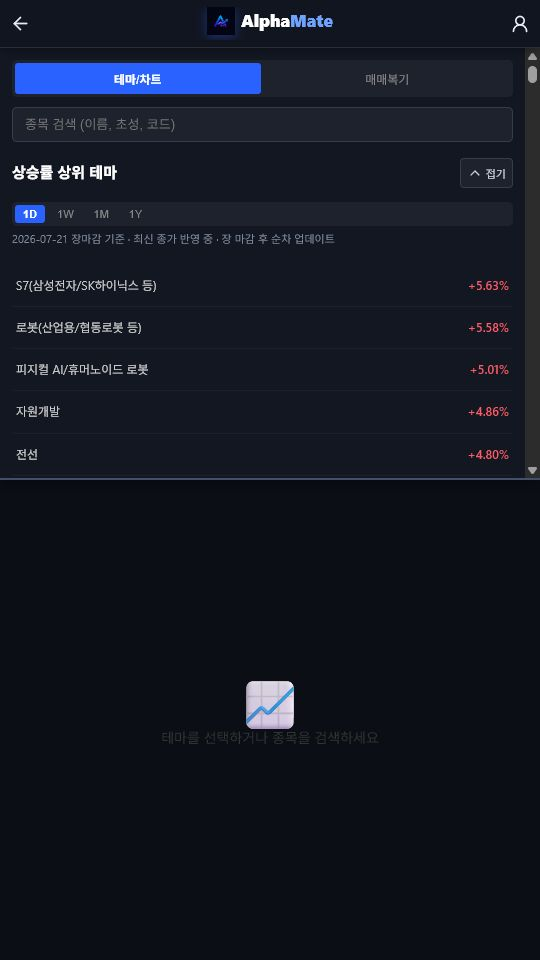
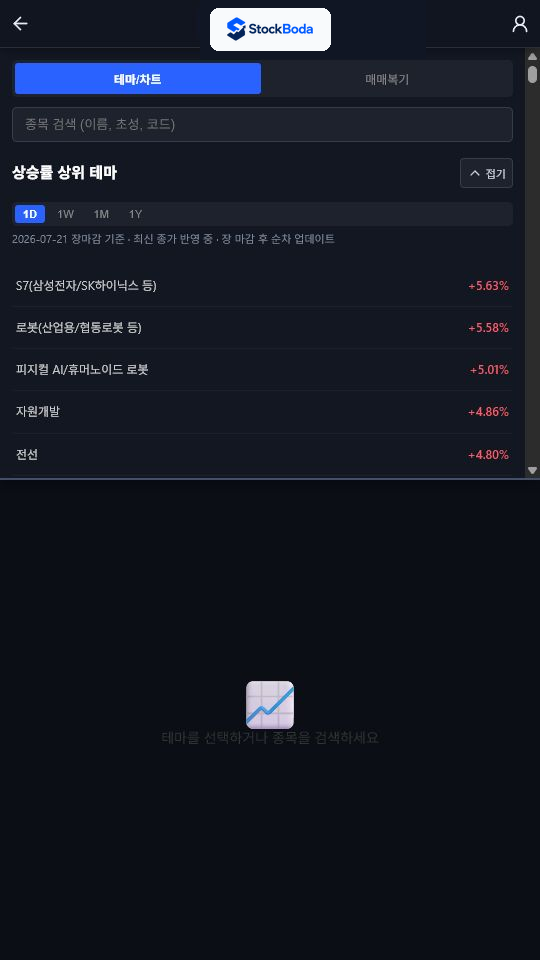
feat: refresh StockBoda Play raw assets

Changed region(s): [[0.3852, 0.0, 0.6222, 0.0625]]

diff --git a/scripts/generate_play_store_assets.py b/scripts/generate_play_store_assets.py
@@ -70,6 +70,12 @@ SCREENSHOTS = (
     ),
 )
 
+RAW_SOURCES_WITH_STALE_BRANDING = (
+    "01-theme-ranking.png",
+    "02-theme-stocks.png",
+    "04-journal-input.png",
+)
+
 
 def font(size: int, *, bold: bool = False) -> ImageFont.FreeTypeFont:
     return ImageFont.truetype(str(FONT_BOLD if bold else FONT_REGULAR), size)
@@ -95,6 +101,13 @@ def paste_header_logo(image: Image.Image) -> None:
     ImageDraw.Draw(image).rounded_rectangle((210, 8, 330, 50), radius=8, fill="#F8FAFC")
     logo = Image.open(HEADER_LOGO_SOURCE).convert("RGBA").resize((102, 34), Image.Resampling.LANCZOS)
     image.paste(logo, (219, 12), logo)
+
+
+def refresh_raw_source_header(source_path: Path) -> None:
+    source = Image.open(source_path).convert("RGB")
+    ImageDraw.Draw(source).rectangle((200, 0, 425, 58), fill="#101624")
+    paste_header_logo(source)
+    source.save(source_path, "PNG", optimize=True)
 
 
 def paste_feature_wordmark(image: Image.Image) -> None:
@@ -303,6 +316,9 @@ def main() -> None:
     if missing:
         missing_text = "\n".join(str(path) for path in missing)
         raise SystemExit(f"Missing raw screenshots:\n{missing_text}")
+
+    for source_name in RAW_SOURCES_WITH_STALE_BRANDING:
+        refresh_raw_source_header(RAW_ROOT / source_name)
 
     SCREENSHOT_ROOT.mkdir(parents=True, exist_ok=True)
     icon_path = create_store_icon()

diff --git a/tests/test_brand_image_assets.py b/tests/test_brand_image_assets.py
@@ -34,6 +34,13 @@ class BrandImageAssetsTest(unittest.TestCase):
         actual_surface = source.crop((210, 8, 330, 50))
         self.assertGreater(sum(1 for pixel in actual_surface.get_flattened_data() if min(pixel) >= 240), 2500)
 
+    def test_raw_screenshot_headers_use_the_official_horizontal_logo_pixels(self):
+        expected = official_asset_on_background("stockboda-logo-horizontal.png", (102, 34), "#F8FAFC")
+        for name in ("01-theme-ranking.png", "02-theme-stocks.png", "04-journal-input.png"):
+            with self.subTest(name=name):
+                source = Image.open(STORE_ROOT / "raw" / name).convert("RGB")
+                self.assertIsNone(ImageChops.difference(source.crop((219, 12, 321, 46)), expected).getbbox())
+
     def test_favicon_uses_the_official_light_app_icon_pixels(self):
         actual = Image.open(ROOT / "frontend" / "public" / "favicon.png").convert("RGBA")
         expected = Image.open(BRAND_ROOT / "stockboda-app-icon-light.png").convert("RGBA").resize((48, 48), Image.Resampling.LANCZOS)
